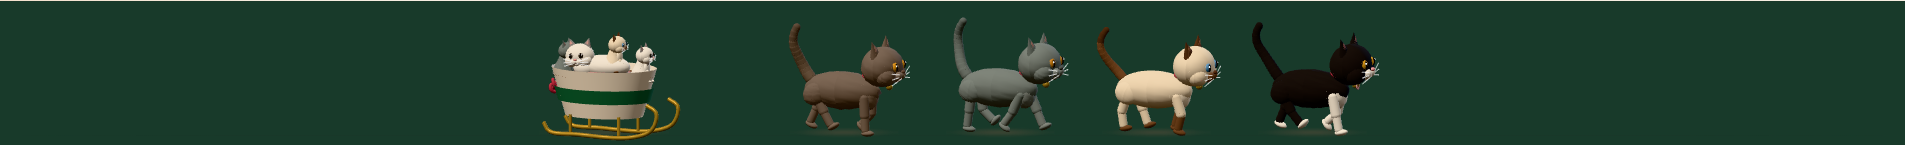
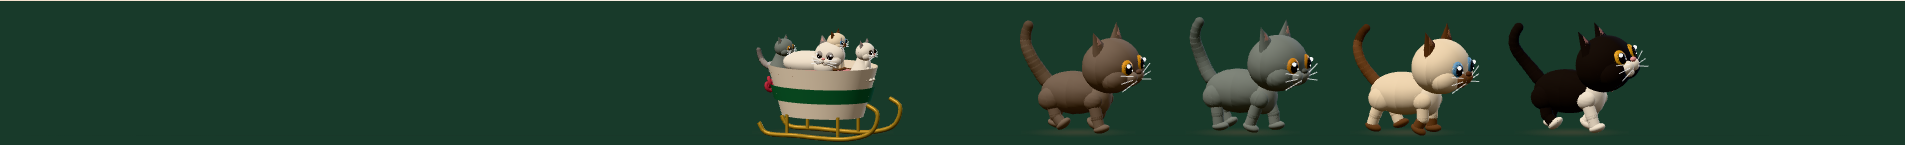
docs(cats): record the smooth walk, the kitten redesign and Luna's facing

Changed region(s): [[0.2787, 0.1379, 0.8672, 0.9931]]

diff --git a/docs/test-cases.md b/docs/test-cases.md
@@ -1401,18 +1401,19 @@ Update 2026-11-13 (ADR-032): the pixel cats in the footer were replaced by 3D ca
 |---|---|---|---|---|---|
 | TC-P9-001 | FR-099 | `src/lib/cats/cats.ts` | `SHOP_CATS`, `PARADE_ORDER`, `SLEIGH_RIDER`, `KITTEN_COATS`, `festiveSeason`, `paradeSize`, `paradeWalkers`, `stripHeight` | Seven cats with seven coats (Kasper's eyes are two colours); Oreo leads and Luna never walks: she rides with three kittens; the sleigh shows from November to December 31 and not from January 1; 3 walkers below 640 px, 4 from there; the strip is 84 px at 390, 108 px at 1440 and at most 150 px | Passed (automated) |
 | TC-P9-002 | FR-099, NFR-035 | `CatParade` | Render without WebGL2 | The strip is aria-hidden, holds a canvas and no pictures, and never says it is ready, so it stays hidden | Passed (automated) |
-| TC-P9-003 | FR-099 | `paradeLap` | Laps both ways at 390 and 1440 px | Each lap starts and ends with the whole parade out of sight; at the stop it is centred on screen | Passed (automated) |
+| TC-P9-003 | FR-099 | `paradeLap` | Laps both ways at 390 and 1440 px | Each lap starts and ends with the whole parade out of sight; mid-lap, where the cats glance out without stopping, it is centred on screen | Passed (automated) |
 | TC-P9-004 | FR-099 | `paradeSpeed`, `walkMs`, `restMs` | Edge values | About a body length a second (950 px takes 10 s on a 100 px strip, either way); rests of 5 to 12 seconds | Passed (automated) |
 | TC-P9-005 | FR-099 | Playwright, 390, 1440 and 1920 wide | Home, About and Menu | The strip is the footer's first child, aria-hidden, ignores taps, sits in the page's flow and ends above every footer link, heading and text | Passed (automated) |
 | TC-P9-006 | FR-099 | Playwright, 1440 wide | `/contact`; a text field added to the page | The page shows the paw cursor, links the pointing paw, the text field the text cursor; both SVGs load (200) | Passed (automated) |
 | TC-P9-013 | FR-099 | `buildCat` walking pose | 60 frames standing (stride 0), then 40 walking (stride 1) | Four hips; standing, none turns; walking, the legs change from frame to frame | Passed (automated) |
 | TC-P9-014 | FR-099 | `globals.css` | Read the strip and cursor rules | The strip is `position: relative` (never fixed) with `pointer-events: none`; both paw cursors are set | Passed (automated) |
 | TC-P9-015 | FR-099 | `meow`, `CatSoundsToggle` | A page transition starts; switch "Cat sounds" off, start another; switch it on | One meow, none while off (saved as "off" on the device), one meow when switched back on; every meow rises then falls and lasts at most 480 ms | Passed (automated) |
+| TC-P9-021 | FR-099 | `restLuna` | Lay Luna in the sleigh walking right, then left | Both ways her head leads at the front of the sleigh and her face points out of the screen, never away | Passed (automated) |
 | TC-P9-016 | FR-099 | `buildCat` | Build each of the seven cats, then a walking cat; measure; step the animation | More than 20 meshes each, none textured; coat and eye colours on it, a tag only on Kasper, Oreo and napping Kasper; standing and sitting cats taller than wide, the napping cat wider than tall, the walking cat longer than 1.5 times its width; the meshes move between frames | Passed (automated) |
 | TC-P9-017 | FR-099 | `buildCat` | The pointer far right, then far left; then `meow()` | The head turns toward the pointer; the mouth opens with the meow | Passed (automated) |
-| TC-P9-018 | FR-099 | Playwright `chromium-3d`, 1440 wide | `/menu`, scrolled to the footer, WebGL and motion on | The strip is ready with Oreo, Latte, Kulas and the grey cat; it walks, and two screenshots 0.7 s apart differ; the lap ends; `/cats/kasper.webp` is gone (404); no page errors | Passed (automated) |
+| TC-P9-018 | FR-099 | Playwright `chromium-3d`, 1440 wide | `/menu`, scrolled to the footer, WebGL and motion on | The strip is ready with Oreo, Latte, Kulas and the grey cat; it walks, and two screenshots 0.7 s apart differ; passing the middle (they glance out) it is still walking and still moving; the lap ends; `/cats/kasper.webp` is gone (404); no page errors | Passed (automated) |
 | TC-P9-019 | FR-099, NFR-032 | Playwright `chromium-3d`, 1440 wide | `/about` with reduced motion | The parade stands still: not walking, and nothing changes in 1.2 seconds | Passed (automated) |
-| TC-P9-020 | FR-099 | Playwright `chromium-3d`, 390, 1440 and 1920 wide | `/about`, at the stop in the middle | Evidence `cat-parade-{strip,footer}-{phone-390,desktop-1440,wide-1920}.png` | Passed (automated) |
+| TC-P9-020 | FR-099 | Playwright `chromium-3d`, 390, 1440 and 1920 wide | `/about`, passing the middle, still walking | Evidence `cat-parade-{strip,footer}-{phone-390,desktop-1440,wide-1920}.png` | Passed (automated) |
 
 The pixel-cat screenshots stay in `docs/evidence/phase-9/cat-characters/` as the record of the second version; the screenshots of the perched 3D cats were not kept.
 

diff --git a/docs/decisions.md b/docs/decisions.md
@@ -484,7 +484,7 @@ This manual state is a temporary functional-verification condition, not a revisi
 - Seven cats (`SHOP_CATS` in `src/lib/cats/cats.ts`) are described only by colours taken from the shop's photos (coat, chest, muzzle, paws, ears, tail, eye colours, a grey cap, a collar tag) and a pose. `cat-model.ts` builds each from three.js primitives: spheres with noise-displaced "fur", cone ears, eyes with slit pupils and eyelids, whiskers, an 11-joint capsule tail and a collar. The walking pose has four jointed legs (hip and knee) that step in a walk gait, with a body bob, a head nod and the tail held up. No pictures or model files; the CC0 pixel pack was removed with its license file.
 - `CatParade` is the first thing in the footer: a strip 84 to 150 px tall by screen width, `aria-hidden`, `pointer-events: none`, in the page's flow, so it never covers anything. Oreo leads, then Latte, Kulas and the grey cat (three on phones, four from 640 px). Luna doesn't walk. `festiveSeason(date)` (November and December) adds the collars and the sleigh. The cats shrink to fit the whole parade on narrow screens.
 - One transparent canvas the size of the strip (`parade-stage.ts`, loaded on demand, only with WebGL2) draws the parade with an orthographic camera in CSS pixels. It runs on the shared frame loop, which pauses while the tab is hidden or the page curtain covers the screen, and it draws nothing while the strip is out of view. Without WebGL2 the strip stays hidden and the footer is unchanged.
-- anime.js 4.5.0 (MIT, pinned) walks each lap at about a body length a second: in from one side, a stop in the middle where the cats turn to look out and the lead meows, then off the other side. After 5 to 12 seconds they come back the other way. With reduced motion the parade stands still in the middle, looking out, and is drawn only on demand.
+- anime.js 4.5.0 (MIT, pinned) walks each lap at about a body length a second: in from one side and off the other in one smooth walk; passing the middle, the cats glance out at the visitor and the lead meows without stopping (the stop in the middle was removed on 2026-11-13 because it looked like the walk froze). After 5 to 12 seconds they come back the other way. With reduced motion the parade stands still in the middle, looking out, and is drawn only on demand.
 - The cursor is a cat paw (`public/cursors/paw.svg`), with a pointing paw on links and buttons (`paw-pointer.svg`), only for fine pointers. Text fields keep the text cursor, and the existing wait, not-allowed and grab cursors still apply.
 - The meow is made with the Web Audio API (a sawtooth with a pitch glide through a moving band-pass filter), quiet and under half a second, and it only follows a visitor's own navigation; a cat in the parade opens its mouth with it. The footer's "Cat sounds" switch turns it off on the device.
 - The anime.js mini-games are Phase 9 work.

diff --git a/docs/development-log.md b/docs/development-log.md
@@ -1872,3 +1872,14 @@ This log records completed work and observed evidence. Planned work is explicitl
 - **Branch / PR:** `feat/messenger-page-posts`.
 - **Known limitations:** posts are read when a customer asks (at most every 2 minutes), not pushed by a `feed` webhook; only an opening time or "closed today" changes the status, other notices are only quoted.
 - **Next action:** Run MAN-P7-011 on the live Page.
+
+## 2026-11-13 — The parade cats walk through, look cuter, and Luna lies the right way
+
+- **Phase:** Phase 9 (FR-099), fix.
+- **Task:** The lead developer reported that the cats halt in the middle of the walk, that their look was creepy rather than adorable, and that Luna lay the wrong way in the sleigh walking right.
+- **Summary:** Each lap is now one smooth walk; passing the middle the cats glance out at the visitor and the lead meows while still walking. The cats were redrawn as kittens: much less fur noise (smooth, plush shapes), a head 1.3 times bigger on a rounder, shorter body, big round eyes with round pupils and two glints in place of slit pupils, rosy cheeks, round shoulders and haunches over the legs, bean paws and a thicker tail. Luna is now turned (and mirrored when walking right) so her head leads and her face looks out of the screen both ways.
+- **Files:** `src/components/cats/{cat-model,cat-parade,parade-stage}.ts(x)`, `src/lib/cats/cats.ts`, `tests/unit/cat-characters.test.tsx`, `tests/e2e/cats.three.spec.ts`, `docs/{decisions,test-cases,development-log}.md`, `docs/evidence/phase-9/cat-characters/`.
+- **Testing:** see the pull request.
+- **Branch / PR:** `fix/cat-parade`.
+- **Known limitations:** the cats are still built from three.js shapes, not drawn sprites.
+- **Next action:** none.
